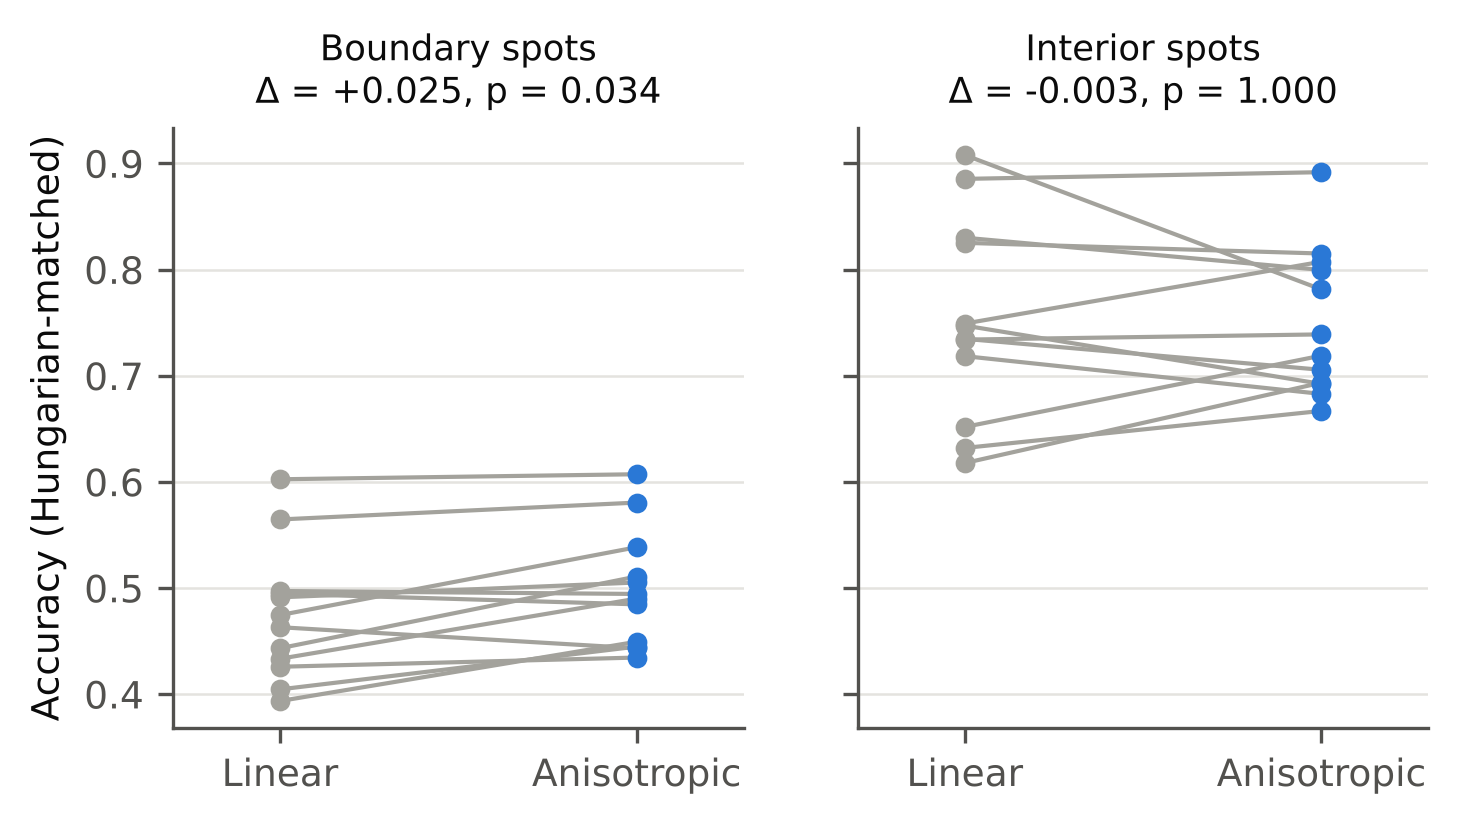
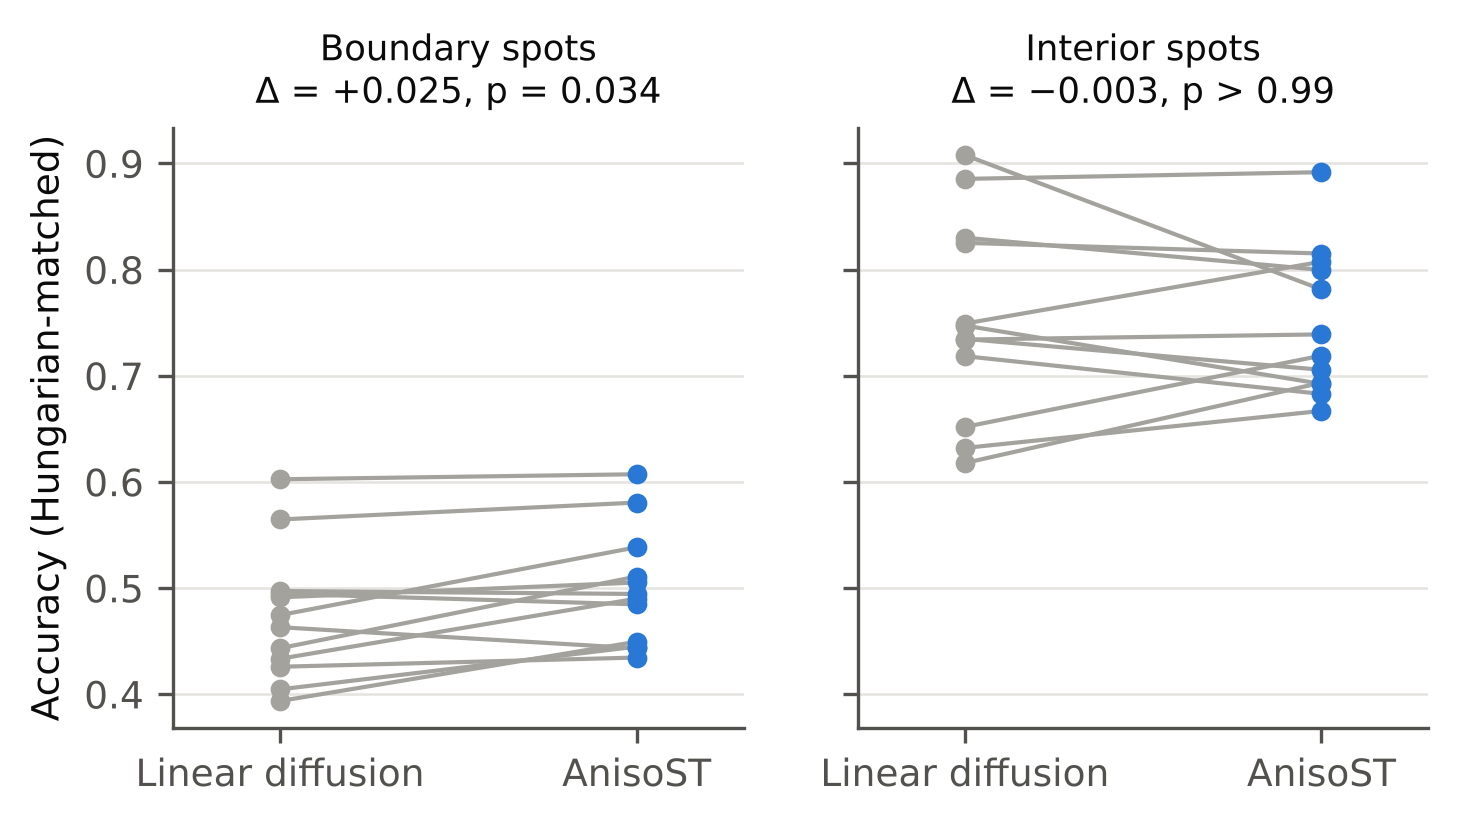
Review follow-ups: runner-analysis verdict change stated (HiSTaR), Supplementary Figure 3 labels and p formatting, PROTOCOL.md superseded note
Claude-Session: https://claude.ai/code/session_01EcsLQxEmDfiYDfyMQq2kQw

diff --git a/scripts/make_supplement.py b/scripts/make_supplement.py
@@ -289,7 +289,7 @@ items.append(("table", "STcov", "Which method was run in which experiment (secti
 figs = [("SFlottery", "v2_fig1_lottery.png", "Initialisation experiment for three representative methods (HiSTaR, GraphST and AnisoST), per section: ARI of 20 single-start fits of one fixed embedding (grey), the best-likelihood fit (blue) and R mclust with default settings (open circle); DLPFC, STARmap and MERFISH (all datasets: Figure 4A of the main text)."),
         ("SFsens", "fig3_sensitivity.png", "Sensitivity of linear diffusion (diffusion steps $T$, neighbours $k$, number of PCs, step size $\\alpha$) and of AnisoST (edge-scale quantile $q$) on the 12 DLPFC sections, one hyper-parameter at a time (open circle: default; dashed line: HiSTaR mean ARI)."),
         ("SFmapsnew", "nar_figS_maps_new.png", "Domains on the breast cancer section and on Stereo-seq section E9.5 E1S1 (seed 0, default clustering in the standardised runner; GraphST with its Stereo-seq setting on Stereo-seq): annotation and five methods; predicted clusters matched to the annotated domains with the Hungarian algorithm for display only; ARI in parentheses. The 20 breast cancer regions and the Stereo-seq tissues are shown with a 20-colour palette, so a colour can repeat across distant domains."),
-        ("SFboundary", "fig4_boundary.png", "Accuracy on spots at layer boundaries and in layer interiors on the 12 DLPFC sections, linear diffusion versus AnisoST (labelled Anisotropic); one line per section; Wilcoxon signed-rank test, $n=12$ sections.")]
+        ("SFboundary", "fig4_boundary.png", "Accuracy on spots at layer boundaries and in layer interiors on the 12 DLPFC sections, linear diffusion versus AnisoST; one line per section; Wilcoxon signed-rank test, $n=12$ sections.")]
 notes = {"SNdata": ("Data and preprocessing", "DLPFC count matrices from spatialLIBD and layer annotations from the SEDR analyses repository; STARmap and MERFISH matrices and annotations from the BASS analyses. Breast cancer: 10x Genomics Space Ranger 1.1.0 dataset V1\\_Breast\\_Cancer\\_Block\\_A\\_Section\\_1 with the 20-region annotation (column fine\\_annot\\_type) of the SEDR analyses repository (data/BRCA1/metadata.tsv). Stereo-seq: MOSTA atlas files E9.5\\_E1S1, E10.5\\_E2S1 and E10.5\\_E1S1 (bin50, CNGB STOmics DB STDS0000058), raw counts and the published tissue annotation (obs annotation); bins without counts were removed. The two later datasets were added after the analysis of the first three was complete and run with unchanged settings in the standardised runner (three seeds per method; two for CCST on E10.5\\_E1S1; DeepST seeds 1 and 2 exceeded the memory cap on E10.5\\_E2S1). Genes in fewer than 50 spots or with fewer than 10 counts were removed for the whole-transcriptome data (Visium, Stereo-seq); 2000 highly variable genes were selected on the counts (Seurat v3 flavour) or all panel genes kept (STARmap, MERFISH), then counts were normalised to the library size, log-transformed, scaled and reduced by PCA (200 components for whole-transcriptome data, 50 for panels). Sections, splits and label provenance are listed in configs/datasets.yaml; per-section statistics are in Supplementary Table~\\STqc."),
          "SNmethods": ("Methods and settings", "Every method was run from its official code (HiSTaR: a PyTorch port of it, given the shared principal components) with the settings of its tutorial or paper (Supplementary Table~\\STmethods). The true number of domains was given to every method. Neighbourhood radii given in pixels were converted to multiples of the spot or cell spacing so that they transfer across technologies. Methods that output an embedding were additionally clustered with matched clustering: a 20-start tied-covariance Gaussian mixture keeping the best likelihood, the same for every method."),
          "SNmetrics": ("Metrics", "Agreement: ARI, NMI, AMI. Per-domain: clusters matched to domains with the Hungarian algorithm; macro-F1, missed domains, recall of domains below 5\\% of spots. Spatial: CHAOS (mean distance to the nearest same-cluster neighbour), PAS (fraction of spots whose cluster differs from most of their ten neighbours), Moran's I of the labels, boundary F1. Label-free: silhouette, Davies--Bouldin, Calinski--Harabasz. Definitions and code: spatialbench/metrics.py (unit tests in tests/)."),

diff --git a/results/paper_macros.tex b/results/paper_macros.tex
@@ -101,10 +101,10 @@
 \newcommand{\kAboveLinBic}{BANKSY $\lambda=0.8$ and NichePCA}
 \newcommand{\kAriBic}{0.403}
 \newcommand{\kAriTrue}{0.427}
-\newcommand{\kBicEdge}{328}
+\newcommand{\kBicEdge}{329}
 \newcommand{\kLinBic}{0.462}
 \newcommand{\kLinBicRank}{3}
-\newcommand{\kN}{335}
+\newcommand{\kN}{336}
 \newcommand{\kOneAvg}{0.06}
 \newcommand{\kOneMax}{0.49}
 \newcommand{\kOneMean}{0.09}
@@ -115,6 +115,7 @@
 \newcommand{\listRobBetter}{BayesSpace, SEDR, DeepST, SpaceFlow, SpaGCN, PCA, CCST and Spatial-MGCN}
 \newcommand{\listRobBetterBonf}{SpaceFlow, CCST and Spatial-MGCN}
 \newcommand{\listRobUnres}{BASS, BANKSY $\lambda=0.8$, AnisoST, NichePCA, STAGATE, HiSTaR, GraphST and BANKSY $\lambda=0.2$}
+\newcommand{\listRunnerFlip}{HiSTaR}
 \newcommand{\listStdBetter}{SEDR, STAGATE, HiSTaR, GraphST, NichePCA, DeepST, CCST, SpaceFlow, SpaGCN, Spatial-MGCN and PCA}
 \newcommand{\listStdUnres}{BASS, BANKSY $\lambda=0.8$, AnisoST, BANKSY $\lambda=0.2$ and BayesSpace}
 \newcommand{\lotBLDown}{3}
@@ -373,6 +374,7 @@
 \newcommand{\nRobUnresExpert}{9}
 \newcommand{\nRobUnresRunner}{7}
 \newcommand{\nRobWorse}{0}
+\newcommand{\nRunnerFlip}{1}
 \newcommand{\nSections}{24}
 \newcommand{\nStdBetter}{11}
 \newcommand{\nStdBetterTest}{9}

diff --git a/paper/main.tex b/paper/main.tex
@@ -219,7 +219,7 @@ baseline within $\pm\statMargin$ ARI. With a Bonferroni correction only \nRobBet
 remained above zero. Ranked on all \rankSections{} sections, BASS was first in \pBestBass{} of the
 bootstrap resamples, linear diffusion in \pBestLin{} and \pBestThird{} in \pBestThirdVal; \nTopRank{} methods had rank 1 within
 their 95\% interval (\figref{fig:accuracy}C; Supplementary Table~\STranks). Taking all datasets from the standardised
-runner instead of the published pipelines gave the same picture (\nRobBetterRunner{} comparisons favouring the baseline,
+runner instead of the published pipelines gave a similar picture, with a different verdict only for \listRunnerFlip{} (\nRobBetterRunner{} comparisons favouring the baseline,
 \nRobUnresRunner{} unresolved; first rank BASS \pBestBassRunner, linear diffusion \pBestLinRunner; Supplementary
 Table~\STstatsrunner). With each method's default clustering \nStdBetter{}
 of \nStdTot{} comparisons favoured the baseline and \nStdUnres{} (\listStdUnres) were unresolved (Supplementary

diff --git a/scripts/make_figures.py b/scripts/make_figures.py
@@ -145,8 +145,9 @@ if os.path.exists(R("anisost_boundary.jsonl")):
         ax.scatter(np.zeros(len(g)), g[(col, "linear")], color=GRAY, s=14, zorder=3)
         ax.scatter(np.ones(len(g)), g[(col, "anisotropic")], color=BLUE, s=14, zorder=3)
         diff = g[(col, "anisotropic")] - g[(col, "linear")]
-        ax.set_title(f"{t}\nΔ = {diff.mean():+.3f}, p = {wilcoxon(diff).pvalue:.3f}", fontsize=8.5, color=INK)
-        ax.set_xticks([0, 1], ["Linear", "Anisotropic"]); ax.set_xlim(-0.3, 1.3); ax.grid(axis="x", visible=False)
+        pv = wilcoxon(diff).pvalue
+        ax.set_title(f"{t}\nΔ = {diff.mean():+.3f}".replace("-", "\u2212") + f", p = {pv:.3f}" if pv < 0.999 else f"{t}\nΔ = {diff.mean():+.3f}".replace("-", "\u2212") + ", p > 0.99", fontsize=8.5, color=INK)
+        ax.set_xticks([0, 1], ["Linear diffusion", "AnisoST"]); ax.set_xlim(-0.3, 1.3); ax.grid(axis="x", visible=False)
     axs[0].set_ylabel("Accuracy (Hungarian-matched)")
     fig.savefig(f"{FIG}/fig4_boundary.png"); plt.close(fig)
 

diff --git a/scripts/paper_v2.py b/scripts/paper_v2.py
@@ -543,6 +543,9 @@ if os.path.exists(SJ):
         cr = json.load(open(R("stats_cluster_aware_runner.json")))
         vr = [v for v in cr["comparisons"].values() if v["protocol"] == "robust"]
         mac("nRobBetterRunner", str(sum(v["category"] == "baseline_better" for v in vr)))
+        flips = [TL[k.split("/", 1)[1]] for k, v in cs["comparisons"].items() if v["protocol"] == "robust"
+                 and cr["comparisons"][k]["category"] != v["category"]]
+        mac("listRunnerFlip", joinl(flips)); mac("nRunnerFlip", str(len(flips)))
         mac("nRobUnresRunner", str(sum(v["category"] == "unresolved" for v in vr)))
         mac("nRobBetterBonfRunner", str(sum(v["ci_bonf"][0] > 0 for v in vr)))
         mac("pBestLinRunner", f"{cr['ranking']['Linear diffusion']['p_best']:.2f}"); mac("pBestBassRunner", f"{cr['ranking']['BASS']['p_best']:.2f}")

diff --git a/docs/PROTOCOL.md b/docs/PROTOCOL.md
@@ -65,6 +65,14 @@ family of comparisons; bootstrap confidence intervals over sections; variance co
 mixed-effects models; rank uncertainty by bootstrap. The families of tests are listed in
 `docs/BENCHMARK_PLAN.md`; additional exploratory tests are labelled as such.
 
+> **Superseded for the paper.** This section is the plan written before the analysis. The manuscript uses the cluster-aware
+> analysis of `scripts/stats_cluster_aware.py` instead: sections are nested in groups (three DLPFC donors and one group each for
+> STARmap, MERFISH, breast cancer and Stereo-seq), differences to the reference (linear diffusion, chosen after seeing the
+> means, so exploratory) are equal-weight means of group means with 95% hierarchical-bootstrap intervals (and Bonferroni
+> intervals over the 16 comparisons), an equivalence margin of ±0.03 ARI, bootstrap rank probabilities, and sensitivity analyses
+> (standardised runner only; expert-annotated datasets only). The pooled Wilcoxon tests over sections are kept only as a
+> secondary table.
+
 ## 9. Reporting
 Every figure and number is generated by scripts from raw per-run results; per-spot predictions are saved
 for every run; `scripts/check_paper_numbers.py` verifies the manuscript against the results; a
